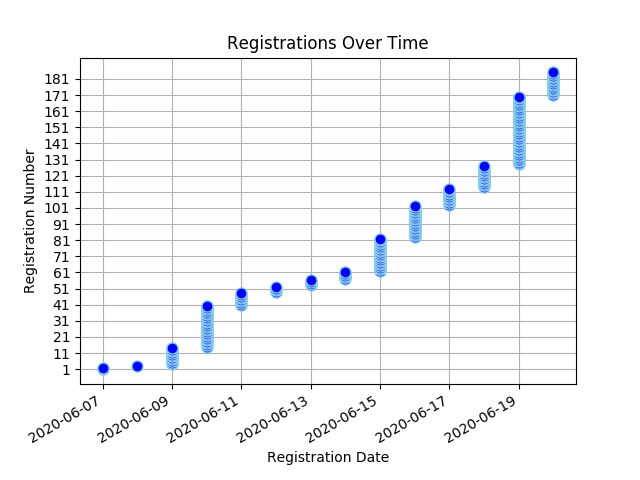
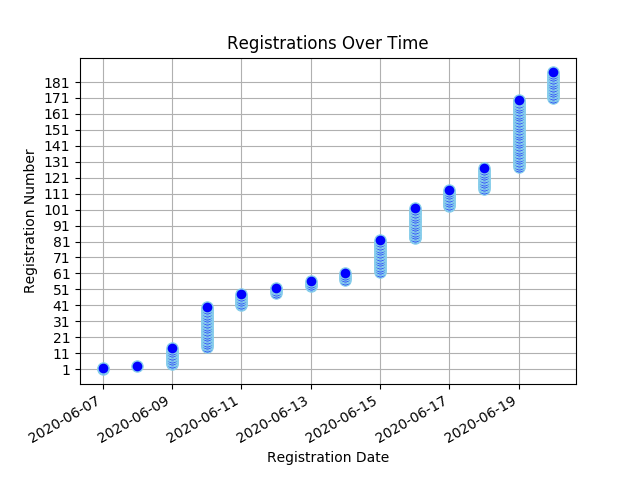
Registree stats backup on Sat Jun 20 16:38:28 SAST 2020

Changed region(s): [[0.0625, 0.1562, 0.9062, 0.7188], [0.3125, 0.625, 0.3438, 0.7188]]

diff --git a/content/virtual_conf_stats/_index.md b/content/virtual_conf_stats/_index.md
@@ -16,7 +16,7 @@ draft: false
 </head>
 <body>
 <h1 style="color: #000000;">Virtual Convention Registration Stats</h1>
-<ul><li><strong>Number of Registrees</strong>: 185</li>
+<ul><li><strong>Number of Registrees</strong>: 187</li>
 </ul><a href="/docs/virtual_convention_stats.csv">Download registration details here</a>
 <h2>Registrees</h2>
 <table id="registreeTable" class="tablesorter" border="1" padding=1>
@@ -77,6 +77,7 @@ Club
 <tr><td>Griffith, David</td><td>The Wilds</td></tr>
 <tr><td>Harris, Washiela</td><td>Mitchell's Plain Lions Club</td></tr>
 <tr><td>Haywood, Barbara</td><td>Eden 410W</td></tr>
+<tr><td>Hendricks, Zarina</td><td>Athlone</td></tr>
 <tr><td>HENDRIKS, ELIZABETH</td><td>TABLEVIEW</td></tr>
 <tr><td>Herzfeld, Evelyn</td><td>Edenvale</td></tr>
 <tr><td>Hess, Dorothy</td><td>Kuilsriver</td></tr>
@@ -90,6 +91,7 @@ Club
 <tr><td>Houston, John</td><td>Table View</td></tr>
 <tr><td>Human, Leslie</td><td>East London Port Rex</td></tr>
 <tr><td>Irving, David</td><td>Benoni Lakes</td></tr>
+<tr><td>Jacobs, David</td><td>Durbanville</td></tr>
 <tr><td>Jacobson, Wolsley</td><td>CAPE TOWN</td></tr>
 <tr><td>JOHNSTON, MALCOLM</td><td>STANDERTON</td></tr>
 <tr><td>Jonathan, Grant</td><td>Gordon's Bay</td></tr>
